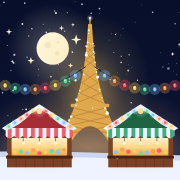
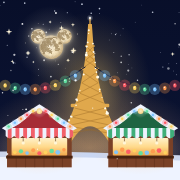
Web app di dicembre: mappe negli alloggi e luna a forma di Topolino più luminosa, anche nella testata (#6)
Riquadro «Dov'è» con mappa e tempi in ogni alloggio; luna a forma di Topolino più luminosa e più piccola, con il bagliore, in icona, anteprima e testata.

Changed region(s): [[0.1389, 0.1389, 0.4444, 0.3889], [0.1389, 0.2778, 0.1667, 0.3056]]

diff --git a/dicembre/index.html b/dicembre/index.html
@@ -16,15 +16,15 @@
 <meta property="og:url" content="https://kur0chanx.github.io/parigi-in-tasca/dicembre/">
 <meta property="og:site_name" content="Parigi in tasca">
 <meta property="og:locale" content="it_IT">
-<meta property="og:image" content="https://kur0chanx.github.io/parigi-in-tasca/dicembre/anteprima.jpg?v=3">
+<meta property="og:image" content="https://kur0chanx.github.io/parigi-in-tasca/dicembre/anteprima.jpg?v=5">
 <meta property="og:image:type" content="image/jpeg">
 <meta property="og:image:width" content="1200">
 <meta property="og:image:height" content="630">
-<meta property="og:image:alt" content="Parigi di notte coi mercatini di Natale, la Torre Eiffel accesa e la luna piena: «Parigi e Disney a Natale, 13–17 dicembre 2026»">
+<meta property="og:image:alt" content="Parigi di notte coi mercatini di Natale, la Torre Eiffel accesa e la luna a forma di Topolino: «Parigi e Disney a Natale, 13–17 dicembre 2026»">
 <meta name="twitter:card" content="summary_large_image">
 <link rel="manifest" href="manifest.webmanifest">
-<link rel="icon" type="image/png" sizes="192x192" href="icona-192.png?v=4">
-<link rel="apple-touch-icon" href="icona-180.png?v=4">
+<link rel="icon" type="image/png" sizes="192x192" href="icona-192.png?v=6">
+<link rel="apple-touch-icon" href="icona-180.png?v=6">
 <title>Parigi e Disney a Natale</title>
 <script>try{if(localStorage.getItem('palette')==='vino')document.documentElement.dataset.palette='vino'}catch(e){}</script>
 <meta name="claude:viewport-fit-sides" content="cover">
@@ -43,7 +43,7 @@
  --fir:#3FAE7A;--wine:#F2606A;--good:#6FD9A6;--warn:#F4C45E;--bad:#FF7F6E;
  --badge-good-bg:rgb(111 217 166 / .14);--badge-warn-bg:rgb(244 196 94 / .15);--badge-bad-bg:rgb(255 127 110 / .15);--badge-est-bg:rgb(169 203 255 / .15);
  --night-1:#16296A;--night-2:#050A1F;--night-ink:#F4F7FF;--night-mute:#C9D4F2;--sil-1:#141D47;--sil-2:#0F173A;--sil-3:#2C3F86;--win:#F6C964;--snow:#FFFFFF;
- --ember:#FFC27A;--tower:#D9A24A;--wood:#7A4127;--wood-dk:#4A230F;--roof-r:#A62C36;--roof-g:#1F6442;--night-wire:#0B1233;--moon:#FFF4D6;--moon-op:1;--stars-op:1;--flight-bg:rgb(8 14 40 / .78);
+ --ember:#FFC27A;--tower:#D9A24A;--wood:#7A4127;--wood-dk:#4A230F;--roof-r:#A62C36;--roof-g:#1F6442;--night-wire:#0B1233;--moon:#FFF4D6;--stars-op:1;--flight-bg:rgb(8 14 40 / .78);
  --seg-hotel:#F6C964;--seg-ticket:#4FBF86;--seg-pack:#EE5A66;--seg-trans:#8E9CC2;
  --l1:#FFCD00;--l1t:#111111;--l7:#FA9ABA;--l7t:#111111;--l8:#E19BDF;--l8t:#111111;--l14:#62259D;--l14t:#FFFFFF;--rera:#E2231A;--rerat:#FFFFFF;--walk:#3B4A7A;--walkt:#FFFFFF;
  --focus:#FFD36B;--shadow:0 1px 2px rgb(0 0 0 / .4),0 16px 36px -18px rgb(0 0 0 / .85);
@@ -86,7 +86,7 @@
  --snowground:#F6ECE6;--snowshade:#E0C9C0;--lamp-hot:#FFF1C9;--fir-light:#8EE3B8;
  --mood-market:rgb(242 96 106 / .18);--mood-magic:rgb(255 176 196 / .16);
  --wire:#6A4234;--bk-1:rgb(246 201 100 / .16);--bk-2:rgb(242 96 106 / .17);--bk-3:rgb(63 174 122 / .12);
- --moon:#FFF4D6;--moon-op:0;--stars-op:0;--flight-bg:rgb(32 10 18 / .78);color-scheme:dark}
+ --moon:#FFE9C8;--stars-op:0;--flight-bg:rgb(32 10 18 / .78);color-scheme:dark}
 @media (prefers-color-scheme:light){:root[data-palette="vino"]:not([data-theme="dark"]){
  --bg:#FBF2E4;--surface:#FFFBF4;--surface-2:#F3E4CF;--ink:#2A1114;--mute:#6B4C47;--rule:#E6D0B6;
  --brand:#A61E4D;--brand-ink:#FFFFFF;--lamp-text:#8A5800;--fir:#1B6E46;--wine:#B3262E;--good:#17784A;--warn:#8F5A00;--bad:#B4232C;
@@ -157,6 +157,12 @@ b,strong{font-weight:700}
 .checked b{color:var(--night-ink)}
 .scene{position:relative;z-index:1;display:block;width:100%;height:clamp(270px,16vw + 210px,380px);margin-top:var(--s3);max-width:100%}
 .scene .par{will-change:transform}
+.luna-t .luna-bagliore{opacity:.6;transform-box:fill-box;transform-origin:center}
+.luna-st{fill:#FFF8E2;transform-box:fill-box;transform-origin:center}
+@media (prefers-reduced-motion:no-preference){.luna-t .luna-bagliore{animation:respiro 5.5s ease-in-out infinite}.luna-t .luna-alone{animation:respiro2 5.5s ease-in-out infinite}.luna-st{animation:brilla 3.4s ease-in-out infinite}.luna-st.s2{animation-delay:-1.2s}.luna-st.s3{animation-delay:-2.3s}}
+@keyframes respiro{0%,100%{opacity:.35;transform:scale(1)}50%{opacity:.8;transform:scale(1.06)}}
+@keyframes respiro2{0%,100%{opacity:.7}50%{opacity:1}}
+@keyframes brilla{0%,100%{opacity:.2;transform:scale(.5)}50%{opacity:1;transform:scale(1)}}
 .jump{position:relative;z-index:2;background:var(--night-2);border-top:1px solid rgb(255 255 255 / .08)}
 .jump .row{display:flex;gap:var(--s2);overflow-x:auto;padding-block:var(--s3);scrollbar-width:none;max-width:64rem;margin-inline:auto;padding-left:max(16px,env(safe-area-inset-left,0px));padding-right:max(16px,env(safe-area-inset-right,0px))}
 .jump a{flex:none;display:inline-flex;align-items:center;min-height:44px;padding:0 14px;border-radius:999px;color:var(--night-ink);text-decoration:none;font-weight:600;font-size:.95rem;border:1px solid rgb(255 255 255 / .16);transition:transform .15s ease,background-color .15s}
@@ -390,6 +396,29 @@ table.cmp td.r{white-space:nowrap}
 .maps:active{transform:scale(.97)}
 .maps svg{width:16px;height:16px;color:var(--wine)}
 .note{font-size:.92rem;background:var(--surface-2);border-radius:var(--r-sm);padding:var(--s2) var(--s3)}
+/* Dov'è: mappa e distanze nella scheda di ogni alloggio (C5) */
+.dove{display:grid;gap:var(--s2)}
+.dove-t{font:800 1.05rem/1.2 var(--display);margin:0}
+.mappa{position:relative;display:block;aspect-ratio:800/534;border-radius:var(--r-sm);overflow:hidden;border:1px solid var(--rule);background:#EEF0F2;text-decoration:none;color:#0D1838}
+.mappa img{display:block;width:100%;height:100%;object-fit:cover}
+.mk-h{position:absolute;transform:translate(-50%,-50%);display:grid;place-items:center;width:30px;height:30px;border-radius:50%;background:#C8102E;color:#fff;font:800 .9rem/1 var(--display);border:2.5px solid #fff;box-shadow:0 2px 6px rgba(0,0,0,.45);font-variant-numeric:tabular-nums}
+.mk-s{position:absolute;width:12px;height:12px;margin:-6px 0 0 -6px;border-radius:50%;background:#0D1838;border:2px solid #fff;box-shadow:0 1px 3px rgba(0,0,0,.4)}
+.mk-s>span{position:absolute;top:50%;display:inline-flex;align-items:center;gap:5px;padding:3px 7px 3px 3px;border-radius:7px;background:rgba(255,255,255,.95);color:#0D1838;font:700 .78rem/1 var(--text);white-space:nowrap;box-shadow:0 1px 4px rgba(0,0,0,.3);transform:translateY(-50%)}
+.mk-s.r>span{left:12px}.mk-s.l>span{right:12px}
+.mk-s.u>span{transform:translateY(-140%)}.mk-s.d>span{transform:translateY(40%)}
+.mk-s .lb{min-width:20px;height:18px;padding:0 4px;font-size:.7rem}
+.mk-c{position:absolute;right:0;bottom:0;padding:2px 6px;border-top-left-radius:6px;background:rgba(255,255,255,.88);color:#333;font:600 .66rem/1.3 var(--text)}
+.dr{list-style:none;margin:0;padding:0;display:grid}
+.dr li{display:grid;grid-template-columns:1fr auto;gap:var(--s2) var(--s3);align-items:center;padding:var(--s2) 0;border-top:1px solid var(--rule)}
+.dr-k{display:block;font-weight:700}
+.dr-k .nw{white-space:nowrap}
+.dr-t{display:block;font:800 1.08rem/1.35 var(--display);color:var(--lamp-text)}
+.dr-l{display:flex;flex-wrap:wrap;gap:4px 8px;margin-top:3px;font-size:.84rem;color:var(--mute)}
+.dr-l>span{display:inline-flex;align-items:center;gap:4px}
+.dr-l .lb{min-width:22px;height:20px;padding:0 4px;font-size:.72rem}
+.dr-l .lb.round{width:21px;min-width:21px;height:21px}
+.dr-l .lb.walk svg{width:12px;height:12px}
+.dr .maps{margin-top:0}
 
 /* checklist */
 .check{list-style:none;margin:0;padding:0;display:grid;gap:var(--s2)}
@@ -437,7 +466,7 @@ footer .wrap{padding-block:var(--s6);color:var(--mute);font-size:.92rem}
    <radialGradient id="hglow" cx="50%" cy="50%" r="50%"><stop offset="0" style="stop-color:var(--ember);stop-opacity:.42"/><stop offset=".6" style="stop-color:var(--ember);stop-opacity:.12"/><stop offset="1" style="stop-color:var(--ember);stop-opacity:0"/></radialGradient>
    <radialGradient id="pool" cx="50%" cy="50%" r="50%"><stop offset="0" style="stop-color:var(--lamp);stop-opacity:.6"/><stop offset="1" style="stop-color:var(--lamp);stop-opacity:0"/></radialGradient>
    <radialGradient id="mglow" cx="50%" cy="50%" r="50%"><stop offset="0" style="stop-color:var(--moon);stop-opacity:.38"/><stop offset=".5" style="stop-color:var(--moon);stop-opacity:.1"/><stop offset="1" style="stop-color:var(--moon);stop-opacity:0"/></radialGradient>
-   <mask id="moonm" maskUnits="userSpaceOnUse" x="190" y="50" width="60" height="60"><circle cx="216" cy="80" r="13" fill="#fff"/><circle cx="222.5" cy="75" r="11.5" fill="#000"/></mask>
+   <filter id="lunaSfuma" x="-60%" y="-60%" width="220%" height="220%"><feGaussianBlur stdDeviation="2.6"/></filter>
    <pattern id="awnR" width="12" height="14" patternUnits="userSpaceOnUse"><rect width="6" height="14" style="fill:var(--wine)"/><rect x="6" width="6" height="14" style="fill:var(--snowground)"/></pattern>
    <pattern id="awnG" width="12" height="14" patternUnits="userSpaceOnUse"><rect width="6" height="14" style="fill:var(--fir)"/><rect x="6" width="6" height="14" style="fill:var(--snowground)"/></pattern>
    <pattern id="awnY" width="12" height="14" patternUnits="userSpaceOnUse"><rect width="6" height="14" style="fill:var(--lamp)"/><rect x="6" width="6" height="14" style="fill:var(--roof-r)"/></pattern>
@@ -446,7 +475,8 @@ footer .wrap{padding-block:var(--s6);color:var(--mute);font-size:.92rem}
   <ellipse cx="400" cy="250" rx="560" ry="150" fill="url(#hglow)"/>
   <!-- strato lontano: tetti di Parigi e la Torre Eiffel accesa -->
   <g class="par" data-depth="0.04">
-   <g style="opacity:var(--moon-op)"><circle cx="216" cy="80" r="44" fill="url(#mglow)"/><circle cx="216" cy="80" r="13" style="fill:var(--moon)" mask="url(#moonm)"/></g>
+   <!-- luna a forma di Topolino (Mario 21/11): immagine fatta da tools/fai-icone-dicembre.js; bagliore che respira e stelline qui -->
[1 lines of base64/hex data omitted]
    <g id="roofs" style="fill:var(--sil-3)"></g>
    <ellipse cx="262" cy="170" rx="46" ry="70" fill="url(#kglow)" opacity=".55"/>
    <path d="M242 265 Q256 210 260 150 L262 128 L264 150 Q268 210 282 265 H272 Q262 236 252 265Z" style="fill:var(--tower)"/>
@@ -889,7 +919,8 @@ const card=h=>`<article class="card${h.id===MIO?' is-rec':''}" id="al-${h.id}">
  <div class="card-top"><div class="ttl"><span class="nb" aria-label="numero ${h.id}">${h.id}</span><div><h3>${esc(h.n)}</h3><p class="small muted">${esc(h.sub)}</p></div></div>${h.id===MIO?`<span class="rec">${STAR}Il mio consiglio</span>`:''}</div>
  <div class="facts"><div class="fact"><div class="k">Voto Booking</div><div class="v">${h.sc}</div></div><div class="fact"><div class="k">Pulizia</div><div class="v">${h.cl}</div></div><div class="fact"><div class="k">4 notti</div><div class="v">${h.pr}</div></div></div>
  <p class="small"><b>Dal treno:</b> ${h.dist}</p>
- <details class="more"><summary>Dettagli e prenotazione</summary><div class="in">
+ <details class="more"><summary>Dov'è, dettagli e prenotazione</summary><div class="in">
+ <div class="dove" data-dove="${h.id}"></div>
  <div class="tags">${h.g.map(x=>`<span class="tag">${GN[x]}</span>`).join('')}</div>
  <p class="small">${h.pl}</p>
  <dl class="kv"><div><dt>Domenica sera</dt><dd>${h.sun}</dd></div><div><dt>Ai parchi</dt><dd>${h.tr}</dd></div>${h.spa?`<div><dt>Spa</dt><dd>${h.spa}</dd></div>`:''}</dl>
@@ -979,6 +1010,50 @@ const SN={VDE:"Val d'Europe",CH:"Marne-la-Vallée–Chessy"};
 /* euro a testa da lunedì a mercoledì (6 corse) più l'eventuale bus di domenica sera e di giovedì mattina */
 const LOC={rer:15.3,bus:12.3+4.1,busrer:27.6+4.1,nav:0,walk:0};
 const COMMON=38.2; /* a testa: aeroporto andata e ritorno, metro in città, RER di domenica sera */
+/* MAPPE: fatto da tools/fai-mappe-dicembre.py, non modificare a mano */
+const MPV=1,MP={
+ 1:{h:[32.5, 16.7],m:[[67.5, 83.3, "CH", "l", ""]],km:["31 km", "1,8 km", "34 km"]},
+ 2:{h:[56.6, 83.3],m:[[35.6, 45.4, "VDE", "r", ""], [43.4, 16.7, "CH", "r", ""]],km:["33 km", "3,8 km", "34 km"]},
+ 3:{h:[16.7, 61.4],m:[[83.3, 38.6, "CH", "l", ""]],km:["30 km", "1,6 km", "33 km"]},
+ 4:{h:[28.5, 76.9],m:[[53.2, 83.3, "VDE", "r", ""], [71.5, 16.7, "CH", "l", ""]],km:["30 km", "2,1 km", "32 km"]},
+ 5:{h:[36.3, 83.3],m:[[47.1, 77.2, "VDE", "r", ""], [63.7, 16.7, "CH", "l", ""]],km:["31 km", "2,1 km", "32 km"]},
+ 6:{h:[36.2, 65.2],m:[[45.4, 83.3, "VDE", "r", ""], [63.8, 16.7, "CH", "l", ""]],km:["31 km", "1,5 km", "33 km"]},
+ 7:{h:[16.7, 27.7],m:[[83.3, 72.3, "CH", "l", ""]],km:["30 km", "2,5 km", "33 km"]},
+ 8:{h:[36.4, 83.3],m:[[45.6, 82.0, "VDE", "r", ""], [63.6, 16.7, "CH", "l", ""]],km:["31 km", "1,9 km", "33 km"]},
+ 9:{h:[38.8, 83.3],m:[[44.4, 78.1, "VDE", "r", ""], [61.2, 16.7, "CH", "l", ""]],km:["31 km", "1,9 km", "33 km"]},
+ 10:{h:[35.3, 83.3],m:[[49.8, 70.8, "VDE", "r", ""], [64.7, 16.7, "CH", "l", ""]],km:["31 km", "2,3 km", "32 km"]},
+ 11:{h:[75.8, 83.3],m:[[6.0, 82.8, "VDE", "r", ""], [24.2, 16.7, "CH", "r", ""]],km:["34 km", "2,4 km", "35 km"]},
+ 12:{h:[40.1, 76.1],m:[[41.6, 83.3, "VDE", "r", ""], [59.9, 16.7, "CH", "l", ""]],km:["31 km", "1,6 km", "33 km"]},
+ 13:{h:[60.3, 83.3],m:[[39.7, 52.3, "VDE", "r", ""], [49.4, 16.7, "CH", "r", ""]],km:["33 km", "3,1 km", "34 km"]},
+ 14:{h:[65.6, 46.0],m:[[34.5, 54.0, "CH", "r", "d"]],km:["32 km", "0,4 km", "34 km"]},
+ 15:{h:[45.0, 83.3],m:[[40.9, 83.1, "VDE", "l", "u"], [59.1, 16.7, "CH", "l", ""]],km:["31 km", "1,7 km", "33 km"]}
+};
+/* FINE MAPPE */
+/* ---------- Dov'è: mappa e distanze nella scheda di ogni alloggio (C5) ----------
+   Orari ufficiali (research_notes/…/trasporti_bagagli.md): RER A Val d'Europe→Châtelet 39 min, Chessy→Châtelet 42,
+   Val d'Europe→Gare de Lyon 36, Chessy→Gare de Lyon 39, Val d'Europe→Chessy 3; metro 14 Gare de Lyon→Orly 23 (Paris Aéroport);
+   stazione di Chessy→parchi 2 minuti a piedi (Disneyland Paris). Stime: Châtelet→mercatino di Notre-Dame 20 min a piedi
+   (percorso a piedi dell'IGN), cambio a Gare de Lyon 8, metro→Orly 1 8 (7–10, non ufficiale); navette e bus senza orario
+   ufficiale: tempo in auto calcolato dall'IGN. A piedi fino alla stazione: gli stessi minuti di ACC (vde) e delle schede. */
+const RA={VDE:{dz:3,nd:39,gl:36},CH:{dz:0,nd:42,gl:39}};
+const DV={1:["CH",[["w",5],["bus",10,"2233"]]],2:["CH",[["bus",15,"navetta"]],"Navetta circa ogni 50 minuti: aggiungete l'attesa.",1],3:["CH",[["bus",20,"2233"]]],
+ 4:["VDE",[["w",18]]],5:["VDE",[["w",5]]],6:["VDE",[["w",8]]],7:["CH",[["w",2],["bus",15,"bus"]],"Linea e orari del bus: chiedeteli al gestore."],
+ 8:["VDE",[["w",8]]],9:["VDE",[["w",7]]],10:["VDE",[["w",12]]],11:["CH",[["bus",8,"navetta"]],"Navetta ogni 30 minuti: aggiungete l'attesa.",1],
+ 12:["VDE",[["w",5]]],13:["VDE",[["bus",12,"2234"]],"Oppure 30 minuti a piedi fino alla stazione."],14:["CH",[["w",10]]],15:["VDE",[["w",2]]]};
+const legChip=l=>l[0]==="bus"?`<span>${lb('bus')}${esc(/^\d/.test(l[2])?'bus '+l[2]:l[2])} ${l[1]} min</span>`:`<span>${lb(l[0])}${l[1]} min</span>`;
+const durata=m=>{m=Math.max(5,Math.round(m/5)*5);if(m<60)return `circa ${m} minuti`;const h=Math.floor(m/60),r=m%60;return `circa ${h===1?'1 ora':h+' ore'}${r?' e '+r:''}`};
+const dove=n=>{const d=DV[n],mp=MP[n],a=ACC[n].a,s=RA[d[0]],acc=d[1];
+ const rows=[["Mercatini di Natale","Notre-Dame, "+mp.km[0],[...acc,["A",s.nd],["w",20]],SV],
+  ["Parchi Disney",mp.km[1],n===14?[["w",10]]:[...acc,...(s.dz?[["A",s.dz]]:[]),["w",2]],DP],
+  ["Aeroporto di Orly",mp.km[2],[...acc,["A",s.gl],["w",8],["14",23],["w",8]],ORLY]];
+ const st=mp.m.map(([x,y,k,l,u])=>`<span class="mk-s ${l} ${u}" style="left:${x}%;top:${y}%"><span>${lb('A')}${k==='VDE'?"Val d'Europe":'Chessy · Disney'}</span></span>`).join('');
+ return `<p class="dove-t">Dov'è</p>
+ <a class="mappa" href="https://www.google.com/maps/search/?api=1&query=${encodeURIComponent(a)}" target="_blank" rel="noopener" aria-label="Apri la posizione del n. ${n} in Google Maps"><img src="mappe/al-${n}.jpg?v=${MPV}" width="800" height="534" loading="lazy" alt="Mappa: dove si trova il n. ${n} rispetto alla stazione e ai parchi Disney">${st}<span class="mk-h" style="left:${mp.h[0]}%;top:${mp.h[1]}%">${n}</span><span class="mk-c">© IGN</span></a>
+ <p class="small muted">Tocca la mappa per aprirla in Google Maps.</p>
+ <ul class="dr">${rows.map(([k,sub,legs,dest])=>`<li><div><span class="dr-k">${k} <span class="muted small nw">${esc(sub)}</span></span><span class="dr-t">${durata(legs.reduce((x,l)=>x+l[1],0))}${d[3]?' <span class="small">+ attesa della navetta</span>':''}</span><span class="dr-l">${legs.map(legChip).join('')}</span></div><a class="maps" href="${gm(dest,{from:a})}" target="_blank" rel="noopener" aria-label="Percorso coi mezzi in Google Maps: ${k}">${PIN}Maps</a></li>`).join('')}</ul>
+ ${d[2]?`<p class="small">${esc(d[2])}</p>`:''}<p class="small muted">Tempi coi mezzi, senza l'attesa di treni e bus ${B.es()}. Distanze in linea d'aria. «Maps» vi dà il percorso all'ora giusta.</p>`};
+/* la scheda si riempie quando si apre (anche dalle barre dei costi): ACC e le mete sono già pronte */
+document.addEventListener('toggle',e=>{const t=e.target;if(!t.matches||!t.matches('details.more')||!t.open)return;const b=t.querySelector('.dove:empty');if(b)b.innerHTML=dove(+b.dataset.dove)},true);
 let P=ACC[CHO];
 const goPark=(dest,name)=>({t:P.out,ti:"Uscite "+P.da,d:`Obiettivo: essere ai cancelli verso le ${P.early?'7:55':'8:30'}. ${name} apre alle 9:00${P.early?', per voi alle 8:00':''}.`,legs:P.go,maps:[["Apri in Google Maps",gm(dest,{from:P.a})]]});
 const amSpa=()=>P.am?[{t:"07:00",ti:"Spa dell'hotel",d:P.am}]:[];
@@ -1171,6 +1246,7 @@ const SRC=[
  ["Hotel",[["Relais Spa Val d'Europe, camere","https://www.relais-spa.com/uk/valdeurope/rooms-and-suites",0],["Relais Spa Val d'Europe, spa NUXE","https://www.relais-spa.com/uk/valdeurope/nuxe-spa",0],["IDFM, orari del bus 2234 (validi 24/8/2026–18/7/2027)","https://ilico.iledefrance-mobilites.fr/uploads/fiches/20260810T152545Z-10849dbf-e6d0-430c-98f2-7d3e5c4fec76.pdf",0],["Recensioni del n. 13 Jungle Love (vasca dopo le 23:00)","https://fr.planetofhotels.com/france/serris/loveroom-jungle-love-proche-disneyland",1],["Booking.com, schede degli hotel (13→17/12/2026)","https://www.booking.com/hotel/fr/moxy-paris-val-d-europe.it.html?checkin=2026-12-13&checkout=2026-12-17&group_adults=2&no_rooms=1",0],["Disneyland Paris, hotel partner","https://www.disneylandparis.com/fr-fr/hotels-partenaires",0],["Résidence du Parc, FAQ","https://www.laresidenceduparc.fr/faq/",0],["Ki Space, sito ufficiale","https://kispace-hotel.com/en",0],["Magical Shuttle, pagina Ki Space","https://magicalshuttle.co.uk/hotel/ki-space-hotel-spa",1],["Planet of Hotels, recensioni Ki Space","https://en.planetofhotels.com/france/serris/ki-space-hotel-spa-near-disneyland-paris",1]]],
  ["Biglietti e parchi Disney",[["Biglietteria ufficiale","https://tickets.disneylandparis.com/it-it/tickets",0],["Orari dei parchi e spettacoli","https://www.disneylandparis.com/it-it/calendari/orari-parco",0],["Natale a Disneyland Paris","https://www.disneylandparis.com/it-it/le-stagioni/natale-a-disneyland-paris",0],["Calendario stima prezzi (pacchetti)","https://www.disneylandparis.com/it-it/calendario-stima-prezzi-disneyland-paris",0],["Condizioni di prenotazione","https://www.disneylandparis.com/it-it/condizioni-prenotazione-disney",0],["dein-dlrp.de, Ticket Finder","https://www.dein-dlrp.de/en/trip-planning/tickets.html",1],["julieears.com, calendario prezzi","https://julieears.com/en/prices/disneyland-paris-tickets",1]]],
  ["Mercatini e Natale a Parigi",[["paris.fr, Tuileries","https://www.paris.fr/evenements/edition-2026-de-la-magie-de-noel-des-tuileries-127134",0],["paris.fr, Notre-Dame","https://www.paris.fr/evenements/marche-de-noel-notre-dame-124520",0],["Mercatino Champs-Élysées, organizzatore","https://xmaschampselysees.com/",0],["Office de tourisme, mercatini","https://parisjetaime.com/article/les-marches-de-noel-paris-a018",0],["Notre-Dame de Paris, orari","https://www.notredamedeparis.fr/",0],["Galeries Lafayette, orari","https://haussmann.galerieslafayette.com/en/our-opening-hours-2/",0],["sortiraparis.com, Saint-Germain","https://www.sortiraparis.com/actualites/noel-et-fetes/articles/46509-le-marche-de-noel-2026-de-saint-germain-des-pres-de-retour-sur-la-rive-gauche-les-dates",1],["christmaswanders.com","https://christmaswanders.com/market/paris-christmas-market",1]]],
+ ["Mappe e distanze",[["IGN, Plan IGN e calcolo dei percorsi (Licence Ouverte 2.0)","https://cartes.gouv.fr/cgu",0],["IGN, posizione degli indirizzi (Base Adresse Nationale)","https://adresse.data.gouv.fr/",0],["OpenStreetMap, posizione di ibis, Ki Space e mete","https://www.openstreetmap.org/copyright",0],["Disneyland Paris: stazione a 2 minuti dai parchi","https://www.disneylandparis.com/en-int/guest-services/getting-to-disneyland-paris-from-paris",0]]],
  ["Trasporti e bagagli",[["Île-de-France Mobilités, tariffe 2026","https://www.iledefrance-mobilites.fr/tarifs-titre-de-transport-en-commun-2026",0],["IDFM, condizioni ticket aeroporto","https://www.iledefrance-mobilites.fr/cgvu-tickets-aeroport",0],["Paris Aéroport, metro 14 per Orly","https://www.parisaeroport.fr/fr/passagers/transports-parking/transports-publics-paris/metro-ligne-14-orly/ory",0],["RER A, orari (malignea)","https://malignea.fr/horaires/",0],["RATP, lavori RER A","https://www.ratp.fr/travaux/rer-a",0],["SNCF, armadietti Gare de Lyon","https://www.garesetconnexions.sncf/fr/gares-services/paris-gare-lyon/services-commerces/consignes",0],["Volotea, condizioni di trasporto","https://www.volotea.com/it/condizioni-legali",0],["Volotea, bagaglio","https://www.volotea.com/it/bagaglio",0],["Nannybag, Gare de Lyon","https://www.nannybag.com/fr/consigne-bagage/paris/gare-de-lyon",1],["Bounce, Gare de Lyon","https://fr.bounce.com/luggage-storage/paris/gare-de-lyon",1]]]
 ];
 $('#sources').innerHTML=SRC.map(g=>`<h3>${esc(g[0])}</h3><ul>${g[1].map(s=>`<li><a href="${s[1]}" target="_blank" rel="noopener">${esc(s[0])}</a>${s[2]?' '+B.nu():''}</li>`).join('')}</ul>`).join('');
